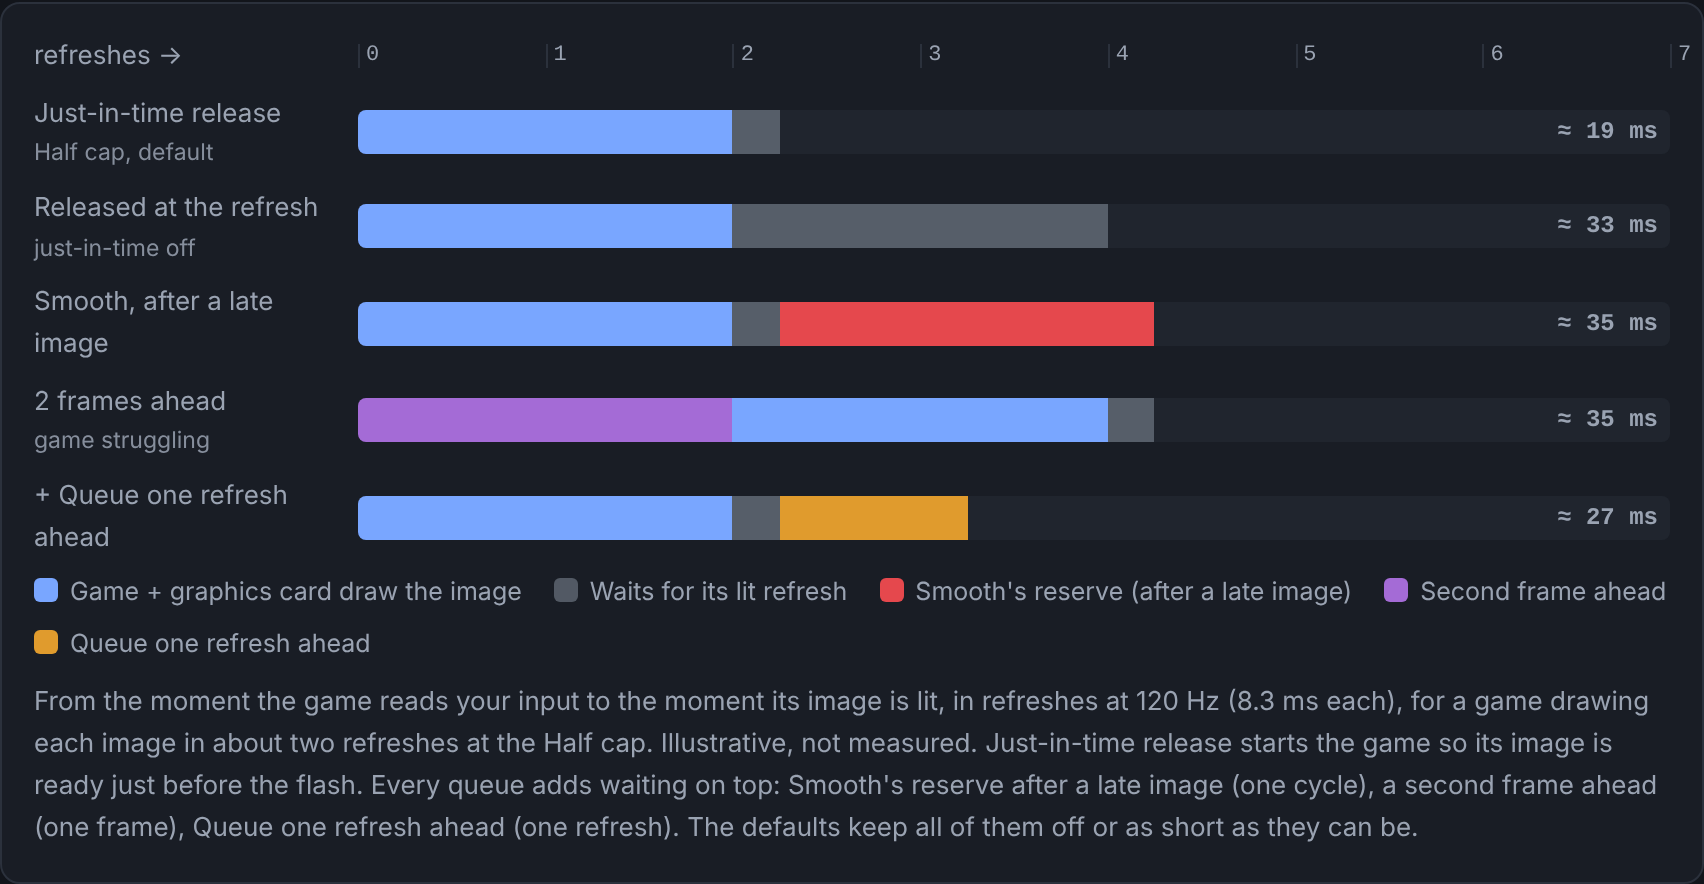
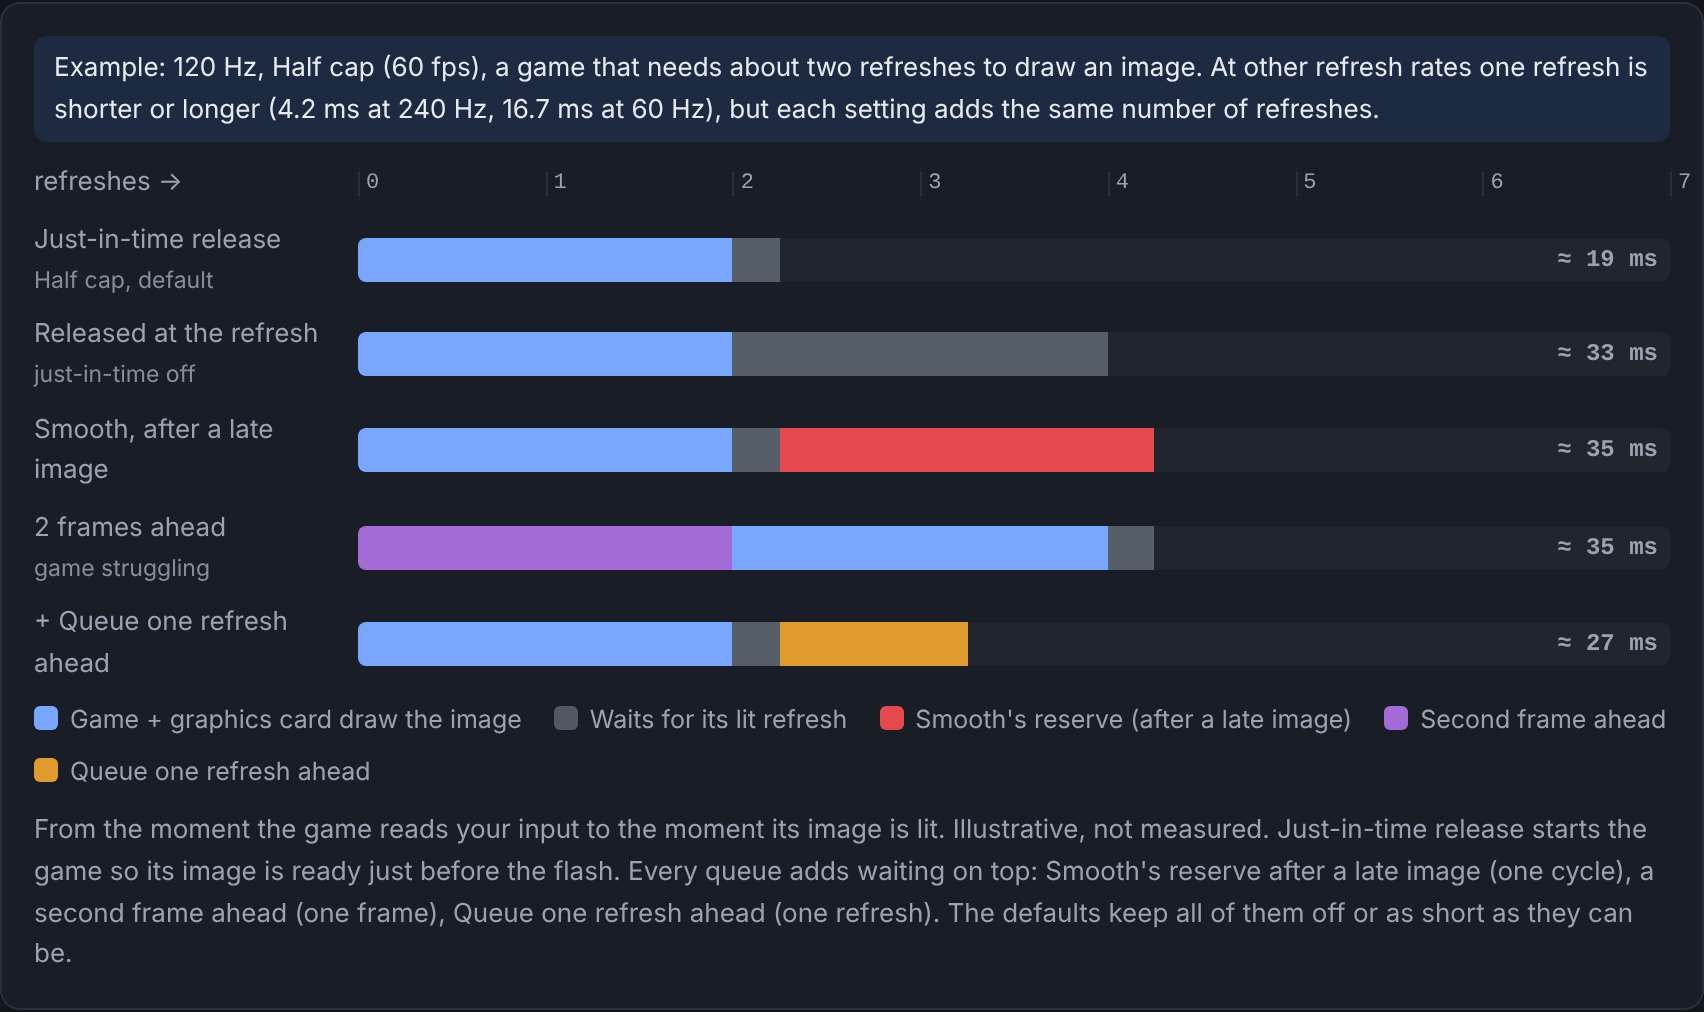
Settings guide: pacing diagram per flash, example notes on both diagrams
Claude-Session: https://claude.ai/code/session_01XmXNcKDVNfHtqb2xhXFyVC

diff --git a/docs/settings-guide.md b/docs/settings-guide.md
@@ -107,7 +107,7 @@ BFI only looks right if every new game image lands exactly on a lit refresh. The
 
 <picture>
   <source media="(prefers-color-scheme: dark)" srcset="img/frame-pacing-dark.png">
-  <img src="img/frame-pacing-light.png" alt="Some images finish just late. Lowest latency repeats the previous image and then jumps two ahead, so C, E and G are never shown; Smooth repeats once and then shows every image in order, one flash later." width="760">
+  <img src="img/frame-pacing-light.png" alt="Example at 120 Hz and 60 fps, flash by flash: every other image finishes just after its flash. Lowest latency shows the newest image, so it repeats one and then jumps over the late one (C, E and G are never shown); Smooth shows the oldest not yet shown, so after one repeat every image appears once, in order, one flash later." width="760">
 </picture>
 
 **Game frame cap** · `CapGameToRefresh` · default: Refresh rate\
